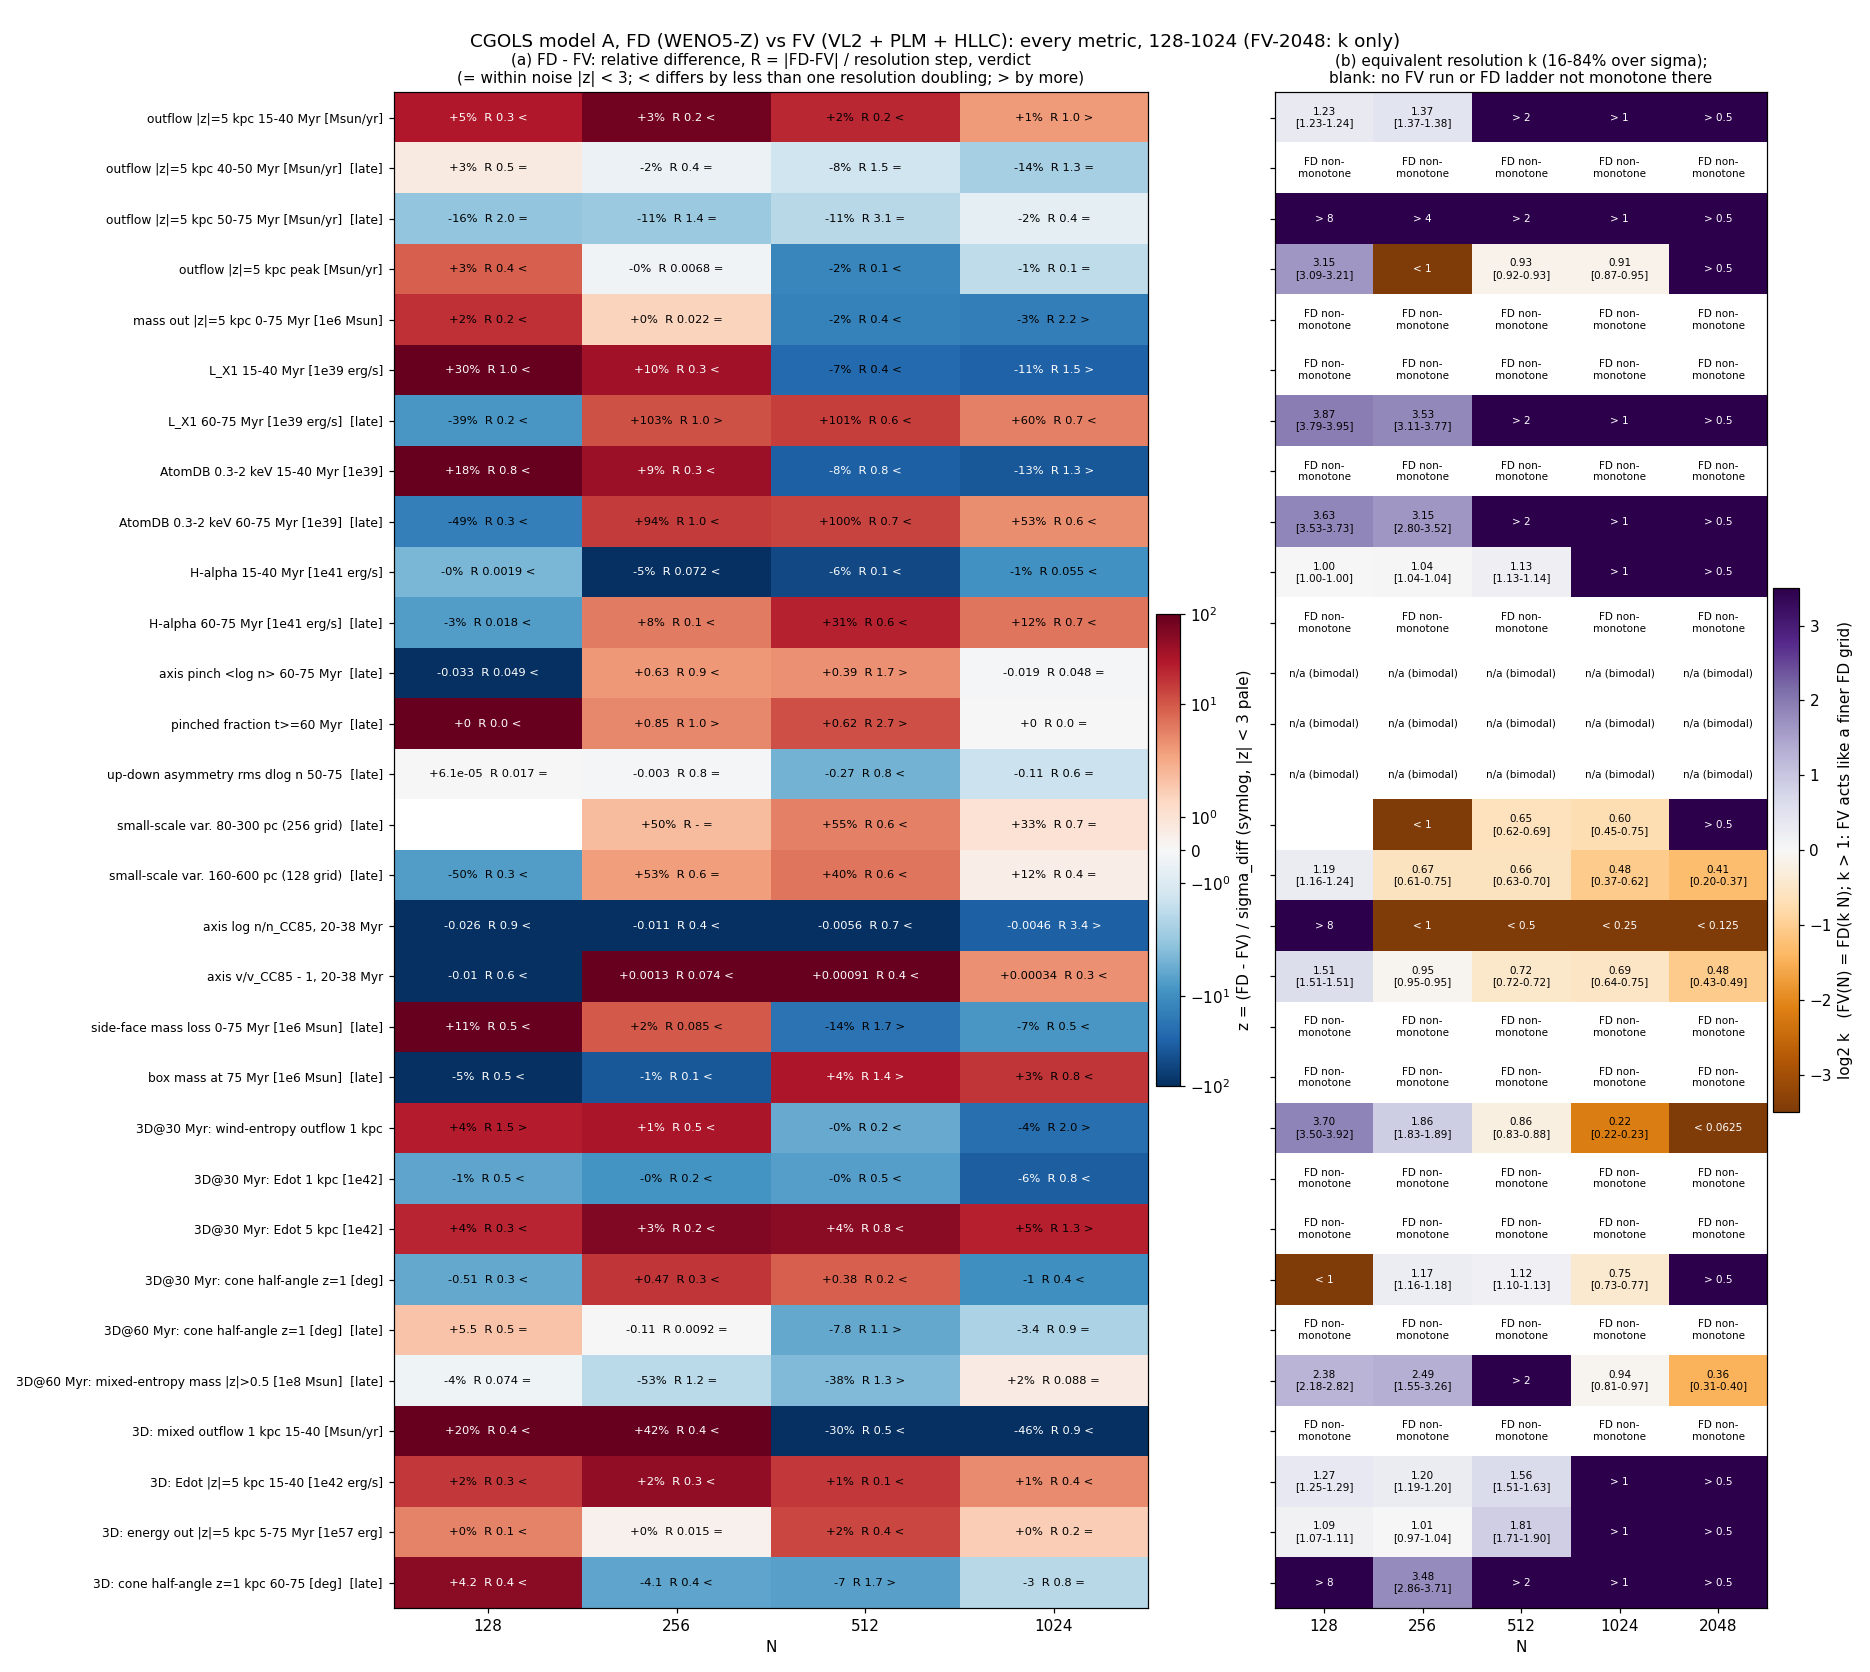
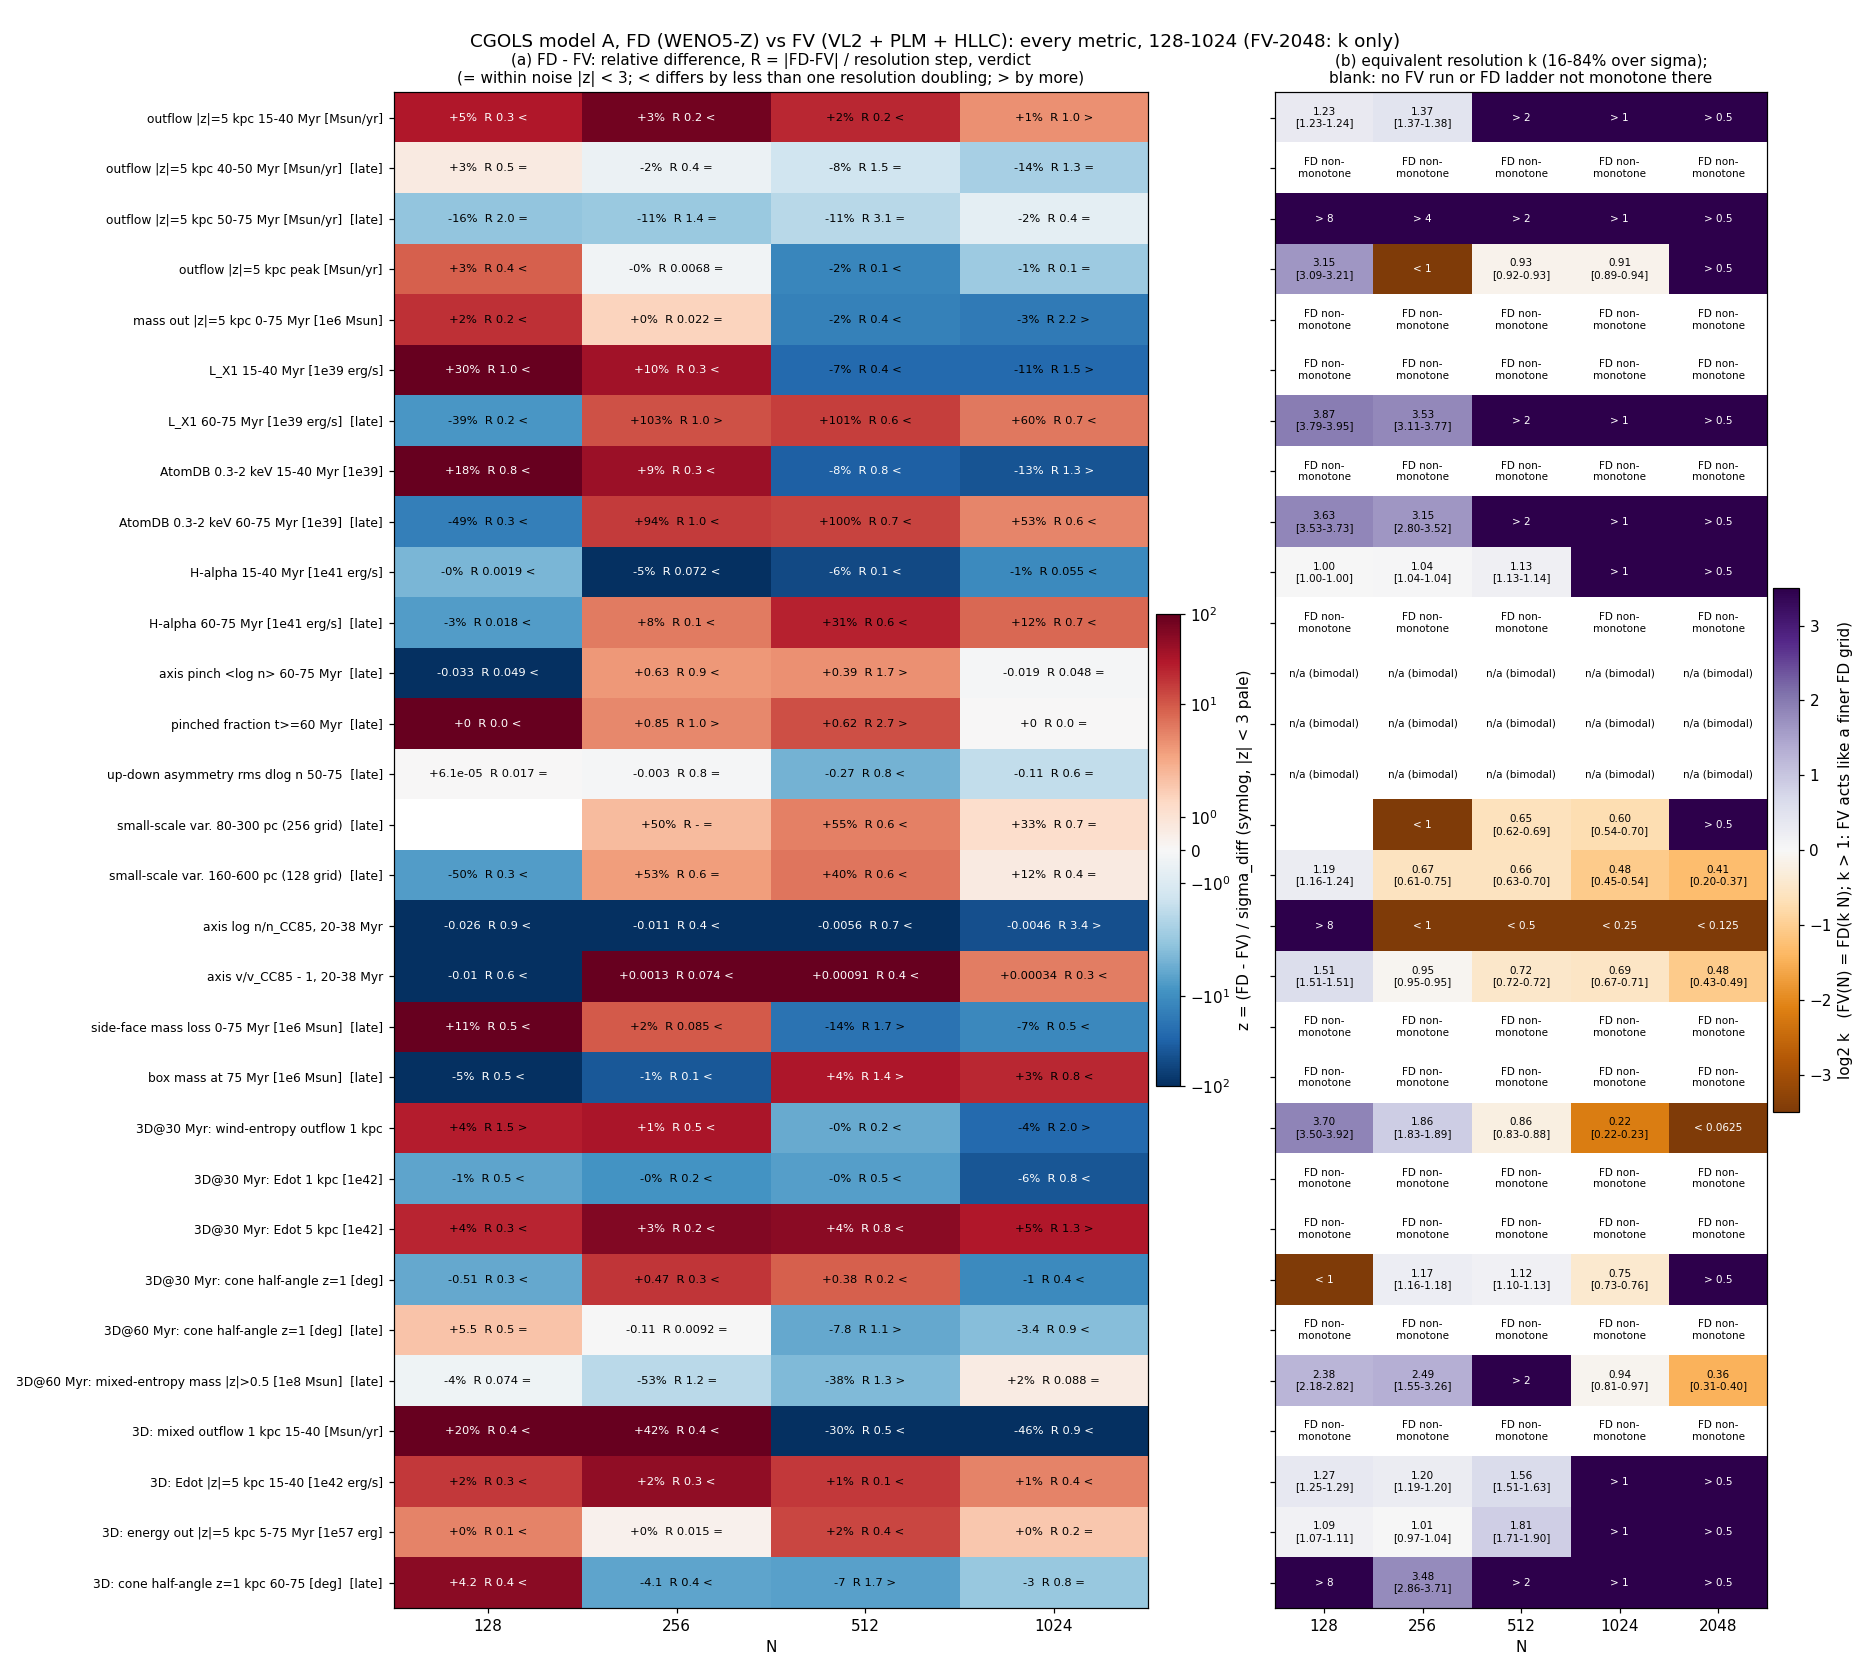
cgols_fvfd_synthesis: FV-1024 seed 1 (HoreKa 117180) as the first measured FV-1024 sigma

Changed region(s): [[0.4963, 0.1244, 0.6203, 0.1866], [0.4963, 0.933, 0.6203, 0.9641], [0.4963, 0.7775, 0.6203, 0.8086]]

diff --git a/pytests/self_gravity/cgols/cgols_fvfd_synthesis.py b/pytests/self_gravity/cgols/cgols_fvfd_synthesis.py
@@ -26,7 +26,7 @@ Per run (cached in data/studies/fvfd_synthesis_metrics.json, --recompute to rebu
 
 Noise. sigma_traj = sample std over the realisations of one scheme at one N: IC-noise seeds 0-3, the checkpoint-
 segmented vs unsegmented baselines and reruns (fp32 only). The IC noise (1e-3) perturbs less than checkpoint
-segmentation does, so this is a LOWER bound. Where a scheme/N has no ensemble (FD-1024, FV-1024) it is
+segmentation does, so this is a LOWER bound. Where a scheme/N has no ensemble (FD-1024) it is
 extrapolated as "noise does not shrink with N, and FD is as noisy as FV": the largest sigma measured for either
 scheme at any N' <= N (relative for positive fluxes/luminosities, absolute for log or shape metrics); the
 pessimistic variant also applies the FV 256 -> 512 growth once more at 1024. sigma_t is the standard error of a
@@ -64,6 +64,8 @@ ablations (HLLE, fp64, CFL 0.3, PPM) are listed as offsets from their FV baselin
 
     # 2026-11-04: + FD-512 seed 1 (RUNS["FD512s1"], HoreKa job 117181; emission cache from cgols_emission.py --tag
     # _A512s1 --source frames): FD-512 sigma_traj is measured (2 members) instead of extrapolated.
+    # 2026-11-05: + FV-1024 seed 1 (RUNS["FV1024s1"], HoreKa job 117180, emission cache from the frames): FV-1024
+    # sigma_traj measured (2 members).
 
 Writes figures/cgols/comparisons/fvfd_summary_significance.png, fvfd_convergence.png and fvfd_cost.png and prints
 the markdown tables. CPU only, numpy + scipy + matplotlib (no jax).
@@ -145,6 +147,9 @@ RUNS = {
                   f"{LOGS}/diagnostics/cgols_diag_A512fvhlle.log"),
     "FD1024": ("FD", 1024, "base", "cgols_snapshots_A1024", "_A1024", "_A1024", f"{LOGS}/cgols_diag_A1024.log"),
     "FV1024": ("FV", 1024, "base", "cgols_snapshots_A1024fv", "_A1024fv", "_A1024fv", f"{LOGS}/cgols_diag_A1024fv.log"),
+    # HoreKa job 117180 (4 H200, split (1, 2, 2, 1), code 494d1b5): IC seed 1, the first measured FV-1024 sigma
+    "FV1024s1": ("FV", 1024, "ens", "cgols_snapshots_A1024fvs1", "_A1024fvs1", None,
+                 f"{LOGS}/cgols_diag_A1024fvs1.log"),
     # HoreKa job 112293 (32 H200, split (1, 8, 4, 1), code 2ce69fa): frames + emission; 3D cache
     # data/studies/convergence3d_v3_A2048fv.npz (31 checkpoints, every 2nd frame + 59, measured on HoreKa)
     "FV2048": ("FV", 2048, "base", "cgols_snapshots_A2048fv", "_A2048fv", "_A2048fv", f"{LOGS}/cgols_diag_A2048fv.log"),
